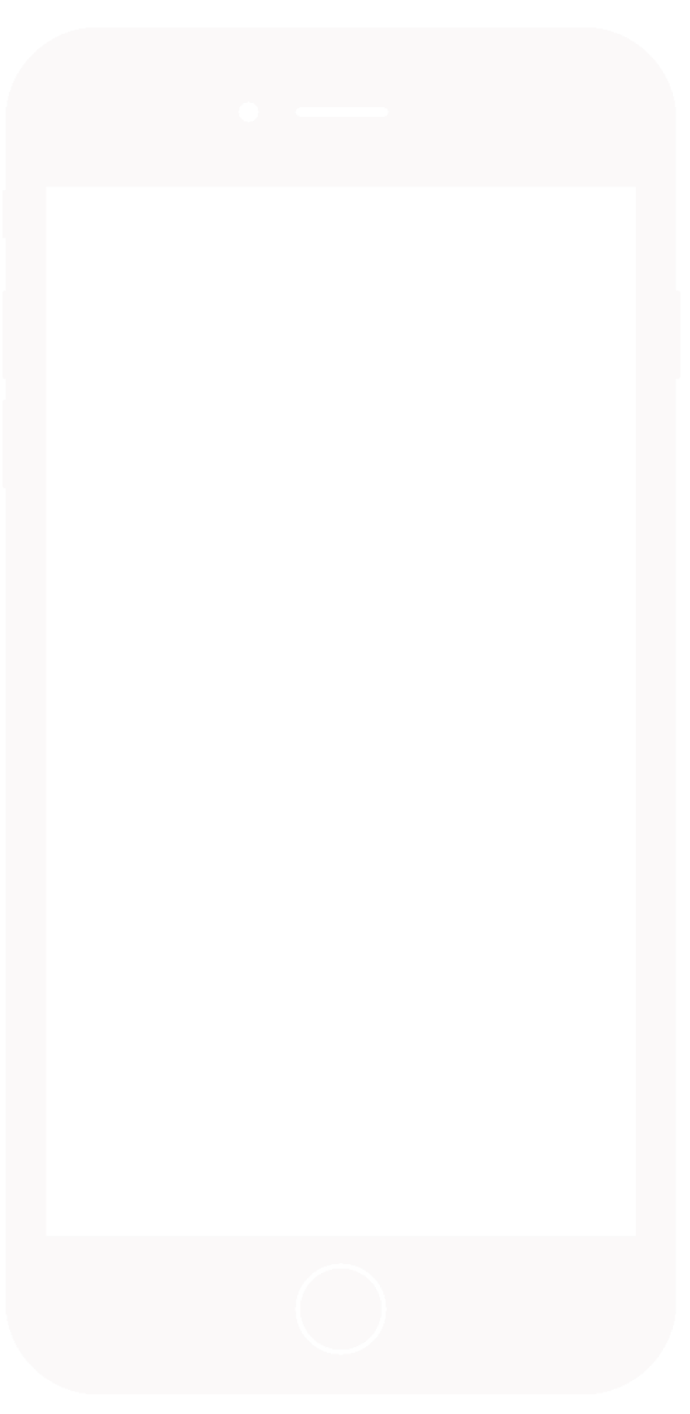
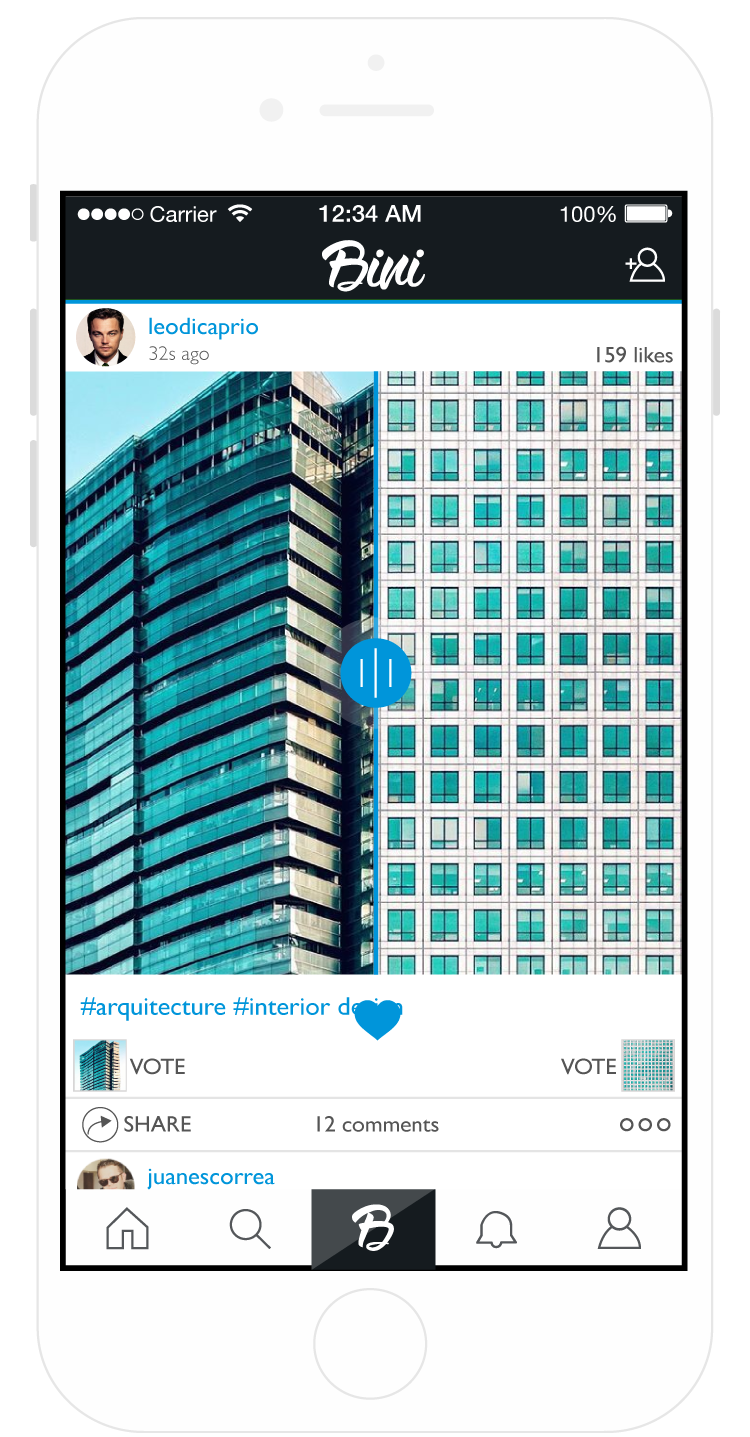
iPhone corregido

diff --git a/css/style.css b/css/style.css
@@ -169,7 +169,7 @@ p {
   text-align: center;
   white-space: nowrap;
   margin-top:50%;
-  width: 269px;
+  width: 287px;
   height: 550px;
   transform:translateY(-35%);
   background-image: url("../images/iphone.png");
